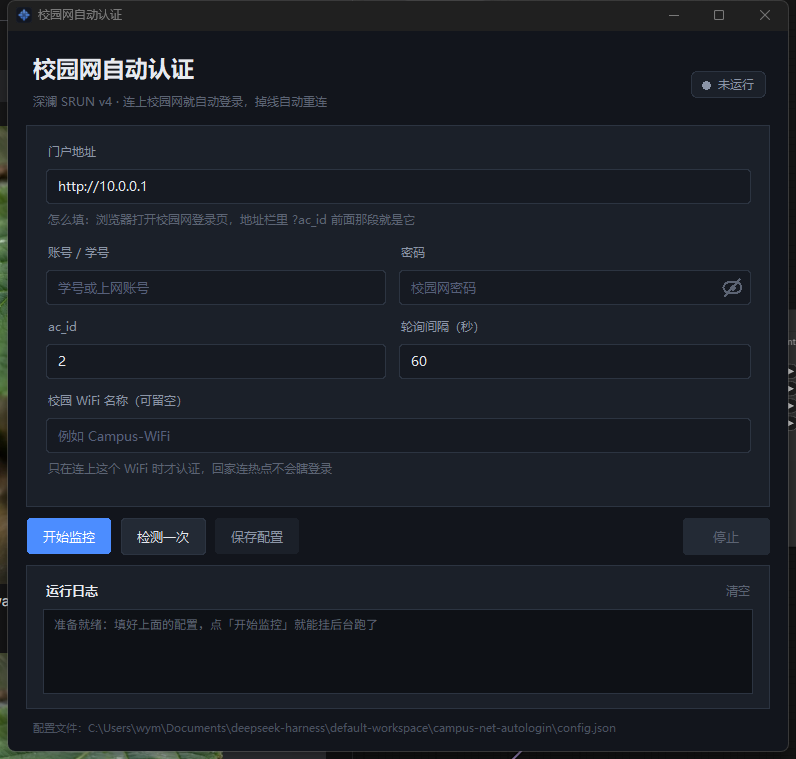
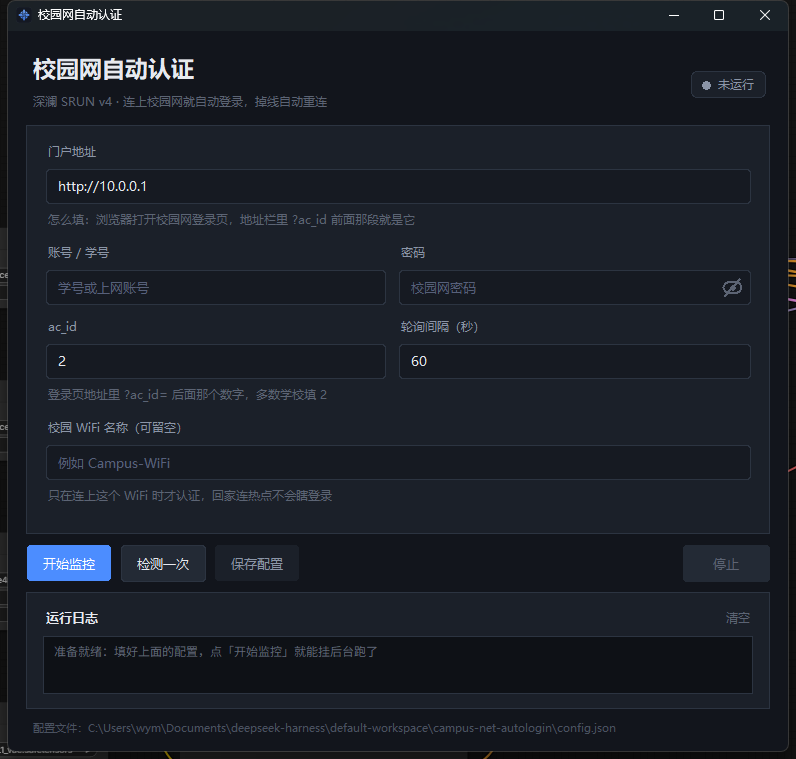
feat: ac_id 加界面提示、修同行字段错位，README 补 ac_id 说明

diff --git a/campus_net_autologin_gui.py b/campus_net_autologin_gui.py
@@ -422,7 +422,8 @@ class App:
                                   ph="学号或上网账号")
         self.e_pass = self._field(inner, "密码", self.var_pass, row=1, col=1,
                                   show="*", ph="校园网密码", eye=True)
-        self.e_acid = self._field(inner, "ac_id", self.var_acid, row=2, col=0, ph="2")
+        self.e_acid = self._field(inner, "ac_id", self.var_acid, row=2, col=0, ph="2",
+                                  hint="登录页地址里 ?ac_id= 后面那个数字，多数学校填 2")
         self.e_interval = self._field(inner, "轮询间隔（秒）", self.var_interval, row=2, col=1,
                                       ph="60")
         self.e_ssid = self._field(inner, "校园 WiFi 名称（可留空）", self.var_ssid,
@@ -489,7 +490,7 @@ class App:
     def _field(self, parent, label, var, row, col, span=1, show="", ph="",
                hint="", eye=False):
         holder = tk.Frame(parent, bg=CARD)
-        holder.grid(row=row, column=col, columnspan=span, sticky="ew",
+        holder.grid(row=row, column=col, columnspan=span, sticky="new",
                     padx=(0, 12) if col == 0 and span == 1 else (0, 0),
                     pady=(0, 10))
         tk.Label(holder, text=label, font=F_LABEL, bg=CARD, fg=TEXT_DIM).pack(anchor="w")

diff --git a/README.md b/README.md
@@ -8,7 +8,7 @@
 
 ## 直接下载就能用（不用装 Python）
 
-去 [Releases](https://github.com/WYMLY/campus-net-autologin/releases/latest) 下载 `CampusNetAutoLogin-v1.0.0.exe`（就是主程序），双击打开，填好门户地址、学号、密码，点「开始监控」即可。
+去 [Releases](https://github.com/WYMLY/campus-net-autologin/releases/latest) 下载 `CampusNetAutoLogin-v1.0.1.exe`（就是主程序），双击打开，填好门户地址、学号、密码，点「开始监控」即可。
 
 - Windows 10 / 11 64 位，单文件，不依赖 Python 环境
 - 第一次运行如果被 SmartScreen 拦一下，点「更多信息 → 仍要运行」
@@ -68,10 +68,16 @@ http://10.100.0.1/srun_portal_pc?ac_id=2&theme=basic
       └─ 门户地址 ─┘            └ ac_id ┘
 ```
 
+### `ac_id` 到底是什么
+
+认证服务器内部给「上网区域 / 设备组」编的号。学校把不同楼、不同网段、有线跟无线分开统计时，就会给不同的 `ac_id`。它不影响账号密码，填错的后果是认证被拒或者一直被踢下线。
+
+**不知道填几就填 `2`**，绝大多数学校是 2；如果不行，照浏览器地址栏 `?ac_id=` 后面那个数字抄。
+
 | 字段 | 说明 |
 | --- | --- |
 | `portal_host` | 门户地址，形如 `http://10.x.x.x`，**不带**结尾斜杠和路径 |
-| `ac_id` | 认证页 URL 里的 `ac_id` 参数，一般是 `1`、`2` 或 `3` |
+| `ac_id` | 认证区域编号，多数学校填 `2`，以认证页 URL 里的 `ac_id=` 为准 |
 | `username` | 学号 / 上网账号 |
 | `password` | 校园网认证密码 |
 | `target_wifi_ssid` | 只在连接这个 WiFi 时才认证；留空表示不限制 |
